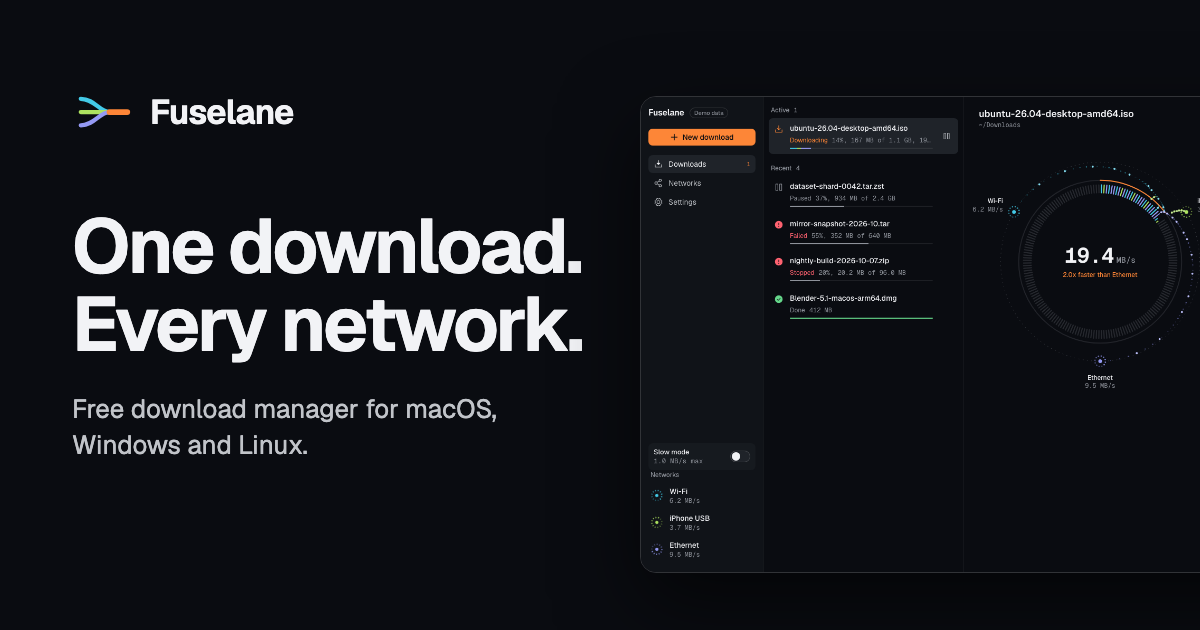
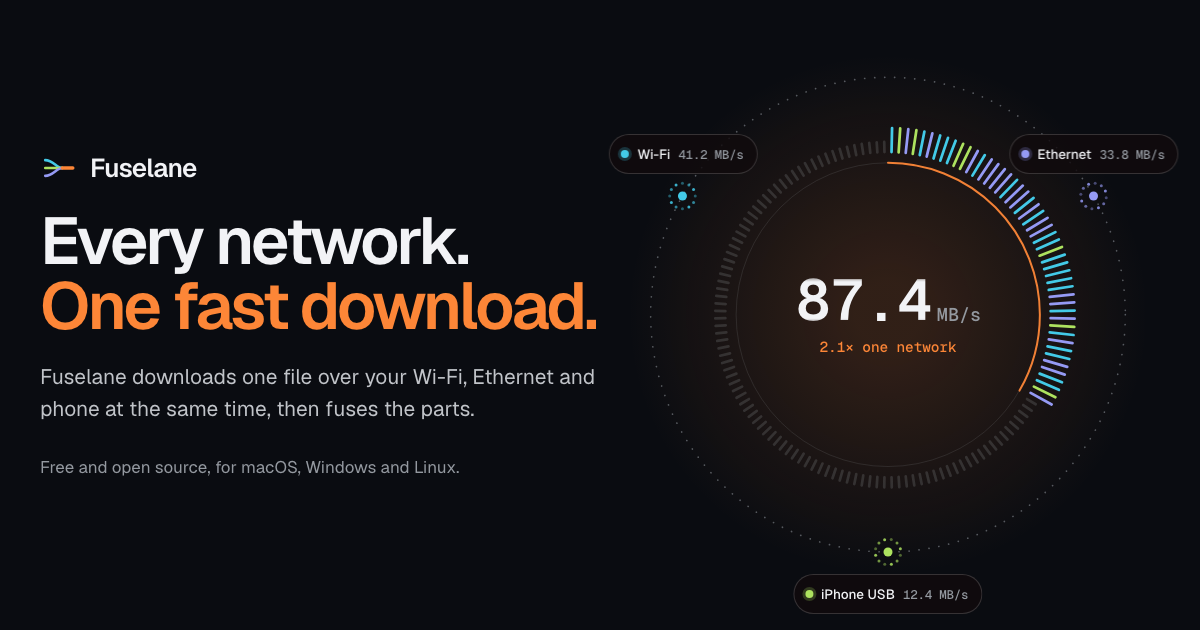
feat(site): a new social card from the real hero
The old card showed the left-to-right lanes. The new one is rendered
from the site's own hero (a still frame of the Fuse Core with the sample
speeds), with the wordmark, the headline and one line saying it's free
and open source for all three systems. The image's alt text on every
page describes it.

diff --git a/apps/site/download/index.html b/apps/site/download/index.html
@@ -31,7 +31,7 @@
     <meta property="og:image:height" content="630" />
     <meta
       property="og:image:alt"
-      content="Fuselane logo, the headline One download. Every network., and the app downloading over three networks."
+      content="The Fuselane logo, the headline Every network. One fast download., and a ring of file parts coloured by the Wi-Fi, Ethernet and iPhone USB that fetched them."
     />
     <meta name="twitter:card" content="summary_large_image" />
     <meta name="twitter:title" content="Download Fuselane for macOS, Windows and Linux" />

diff --git a/apps/site/support/index.html b/apps/site/support/index.html
@@ -31,7 +31,7 @@
     <meta property="og:image:height" content="630" />
     <meta
       property="og:image:alt"
-      content="Fuselane logo, the headline One download. Every network., and the app downloading over three networks."
+      content="The Fuselane logo, the headline Every network. One fast download., and a ring of file parts coloured by the Wi-Fi, Ethernet and iPhone USB that fetched them."
     />
     <meta name="twitter:card" content="summary_large_image" />
     <meta name="twitter:title" content="Support Fuselane: star, share, report, suggest" />

diff --git a/apps/site/s/index.html b/apps/site/s/index.html
@@ -33,7 +33,7 @@
     <meta property="og:image:height" content="630" />
     <meta
       property="og:image:alt"
-      content="Fuselane logo, the headline One download. Every network., and the app downloading over three networks."
+      content="The Fuselane logo, the headline Every network. One fast download., and a ring of file parts coloured by the Wi-Fi, Ethernet and iPhone USB that fetched them."
     />
     <meta name="twitter:card" content="summary_large_image" />
     <meta name="twitter:title" content="Someone sent you a file with Fuselane" />

diff --git a/apps/site/faq/index.html b/apps/site/faq/index.html
@@ -31,7 +31,7 @@
     <meta property="og:image:height" content="630" />
     <meta
       property="og:image:alt"
-      content="Fuselane logo, the headline One download. Every network., and the app downloading over three networks."
+      content="The Fuselane logo, the headline Every network. One fast download., and a ring of file parts coloured by the Wi-Fi, Ethernet and iPhone USB that fetched them."
     />
     <meta name="twitter:card" content="summary_large_image" />
     <meta name="twitter:title" content="Fuselane questions, answered" />

diff --git a/apps/site/guide/index.html b/apps/site/guide/index.html
@@ -34,7 +34,7 @@
     <meta property="og:image:height" content="630" />
     <meta
       property="og:image:alt"
-      content="Fuselane logo, the headline One download. Every network., and the app downloading over three networks."
+      content="The Fuselane logo, the headline Every network. One fast download., and a ring of file parts coloured by the Wi-Fi, Ethernet and iPhone USB that fetched them."
     />
     <meta name="twitter:card" content="summary_large_image" />
     <meta

diff --git a/apps/site/index.html b/apps/site/index.html
@@ -34,7 +34,7 @@
     <meta property="og:image:height" content="630" />
     <meta
       property="og:image:alt"
-      content="Fuselane logo, the headline One download. Every network., and the app downloading over three networks."
+      content="The Fuselane logo, the headline Every network. One fast download., and a ring of file parts coloured by the Wi-Fi, Ethernet and iPhone USB that fetched them."
     />
     <meta name="twitter:card" content="summary_large_image" />
     <meta
